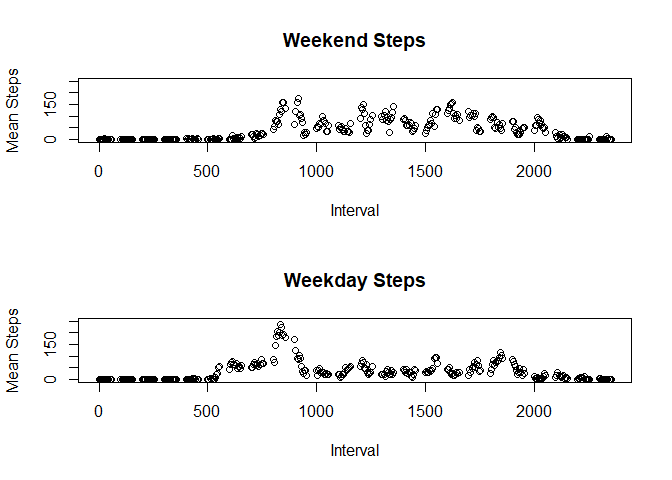
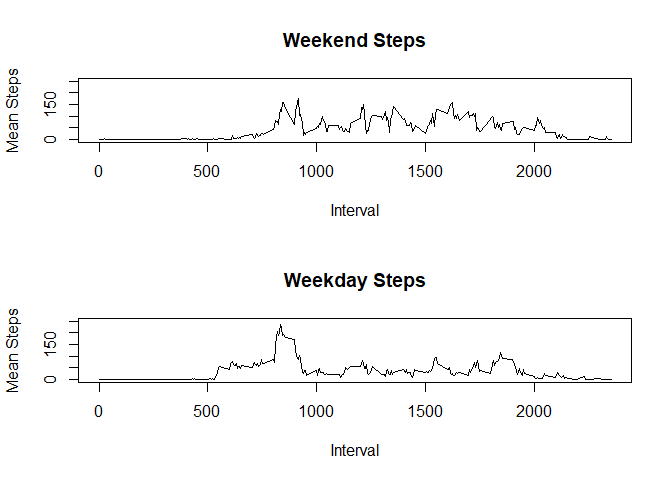
Updates to weekend, weekday steps

diff --git a/PA1_template.html b/PA1_template.html
@@ -179,12 +179,14 @@ hist(stepDailyFill$x, breaks = 20, xlab = &quot;Steps Per Day&quot;, ylab = &quo
 dataDayOfWeek &lt;- mutate(data, isWeekend = is.weekend(as.POSIXct(date))) # convert interval to string
 weekendData &lt;- filter(dataDayOfWeek, isWeekend == TRUE)
 weekdayData &lt;- filter(dataDayOfWeek, isWeekend == FALSE)
-stepIntervalWeekend &lt;- group_by(weekendData, as.character(interval))  %&gt;% summarize(x=mean(steps, na.rm = TRUE)) 
-stepIntervalWeekday &lt;- group_by(weekdayData, as.character(interval))  %&gt;% summarize(x=mean(steps, na.rm = TRUE)) 
+stepIntervalWeekend &lt;- group_by(weekendData, interval)  %&gt;% summarize(x=mean(steps, na.rm = TRUE)) 
+stepIntervalWeekday &lt;- group_by(weekdayData, interval)  %&gt;% summarize(x=mean(steps, na.rm = TRUE)) 
+colnames(stepIntervalWeekend) &lt;- c(&quot;interval&quot;,&quot;meanSteps&quot;)
+colnames(stepIntervalWeekday) &lt;- c(&quot;interval&quot;,&quot;meanSteps&quot;)
 par(mfrow=c(2,1))
-plot(stepIntervalWeekend, ylab = &quot;Mean Steps&quot;, xlab = &quot;Interval&quot;, main = &quot;Weekend Steps&quot;, ylim=c(0,250))
-plot(stepIntervalWeekday, ylab = &quot;Mean Steps&quot;, xlab = &quot;Interval&quot;, main = &quot;Weekday Steps&quot;, ylim=c(0,250))</code></pre>
[1 lines of base64/hex data omitted]
+plot(stepIntervalWeekend, ylab = &quot;Mean Steps&quot;, xlab = &quot;Interval&quot;, main = &quot;Weekend Steps&quot;, ylim=c(0,250), type = &quot;l&quot;)
+plot(stepIntervalWeekday, ylab = &quot;Mean Steps&quot;, xlab = &quot;Interval&quot;, main = &quot;Weekday Steps&quot;, ylim=c(0,250), type = &quot;l&quot;)</code></pre>
[1 lines of base64/hex data omitted]
 </div>
 
 

diff --git a/PA1_template.md b/PA1_template.md
@@ -102,11 +102,13 @@ dataDayOfWeek <- mutate(data, dateObj = as.POSIXct(date)) # convert interval to 
 dataDayOfWeek <- mutate(data, isWeekend = is.weekend(as.POSIXct(date))) # convert interval to string
 weekendData <- filter(dataDayOfWeek, isWeekend == TRUE)
 weekdayData <- filter(dataDayOfWeek, isWeekend == FALSE)
-stepIntervalWeekend <- group_by(weekendData, as.character(interval))  %>% summarize(x=mean(steps, na.rm = TRUE)) 
-stepIntervalWeekday <- group_by(weekdayData, as.character(interval))  %>% summarize(x=mean(steps, na.rm = TRUE)) 
+stepIntervalWeekend <- group_by(weekendData, interval)  %>% summarize(x=mean(steps, na.rm = TRUE)) 
+stepIntervalWeekday <- group_by(weekdayData, interval)  %>% summarize(x=mean(steps, na.rm = TRUE)) 
+colnames(stepIntervalWeekend) <- c("interval","meanSteps")
+colnames(stepIntervalWeekday) <- c("interval","meanSteps")
 par(mfrow=c(2,1))
-plot(stepIntervalWeekend, ylab = "Mean Steps", xlab = "Interval", main = "Weekend Steps", ylim=c(0,250))
-plot(stepIntervalWeekday, ylab = "Mean Steps", xlab = "Interval", main = "Weekday Steps", ylim=c(0,250))
+plot(stepIntervalWeekend, ylab = "Mean Steps", xlab = "Interval", main = "Weekend Steps", ylim=c(0,250), type = "l")
+plot(stepIntervalWeekday, ylab = "Mean Steps", xlab = "Interval", main = "Weekday Steps", ylim=c(0,250), type = "l")
 ```
 
 ![](PA1_template_files/figure-html/step_8-1.png)<!-- -->
